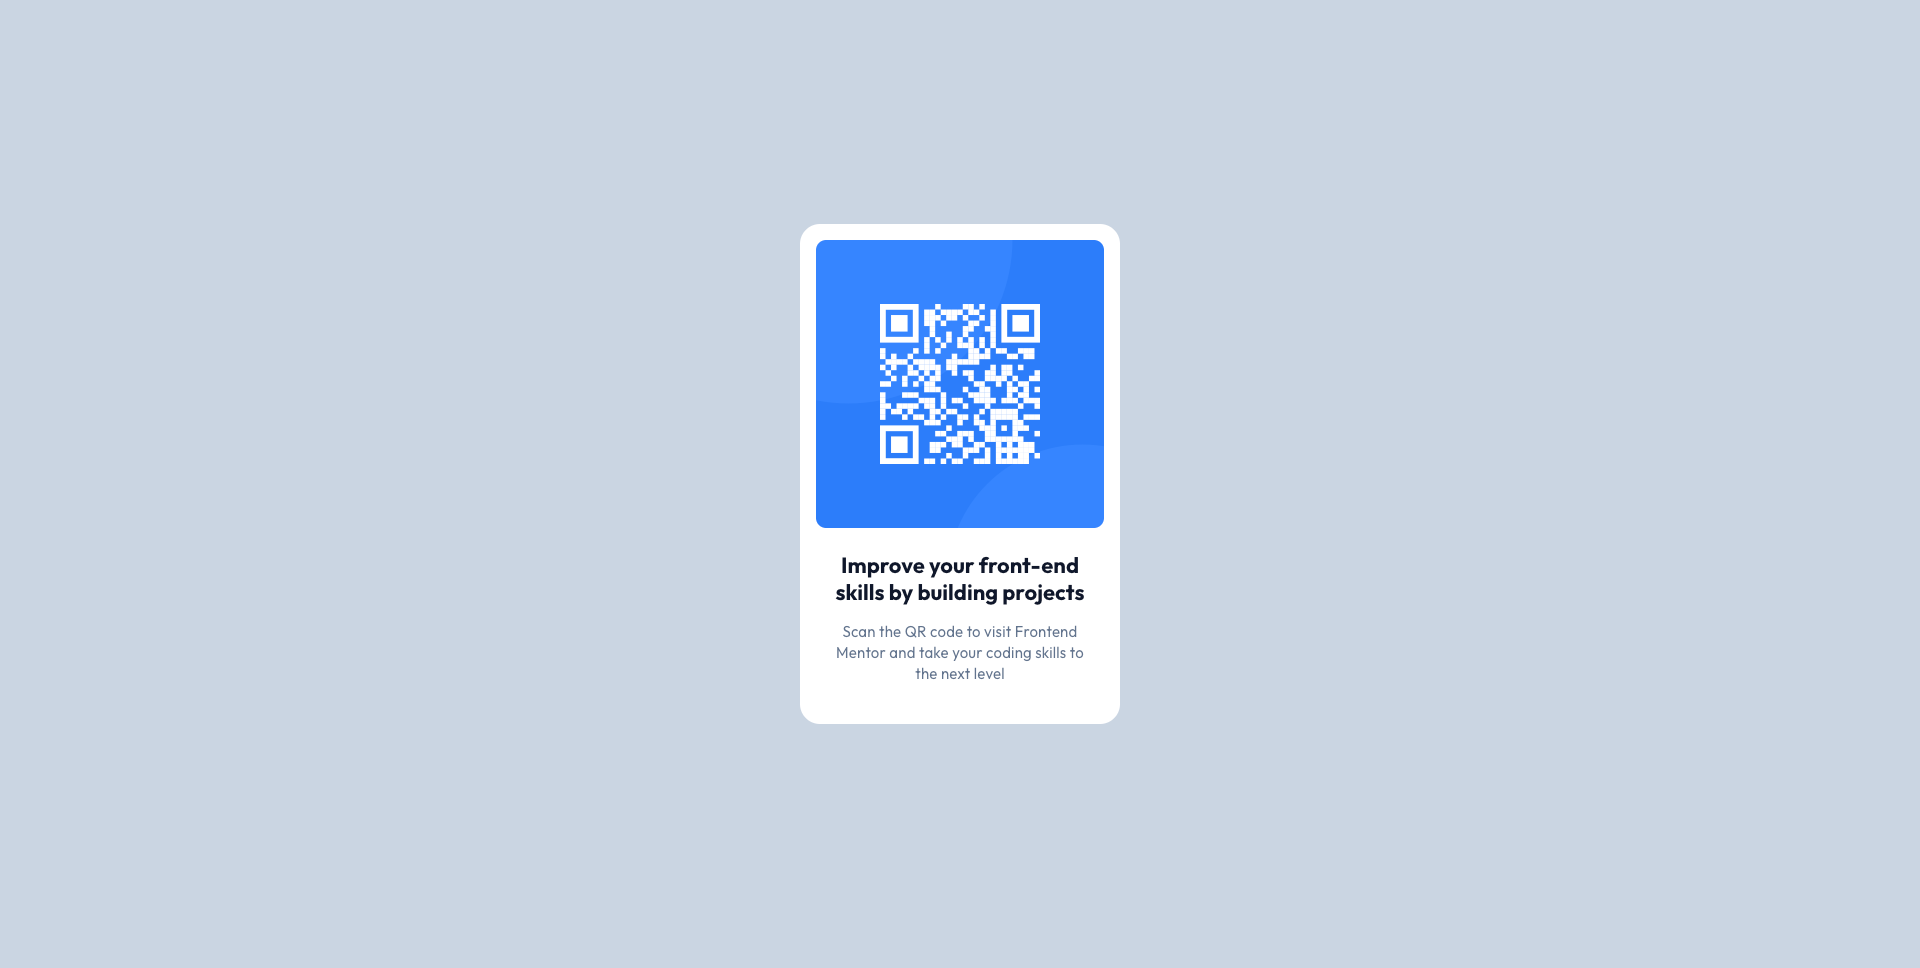
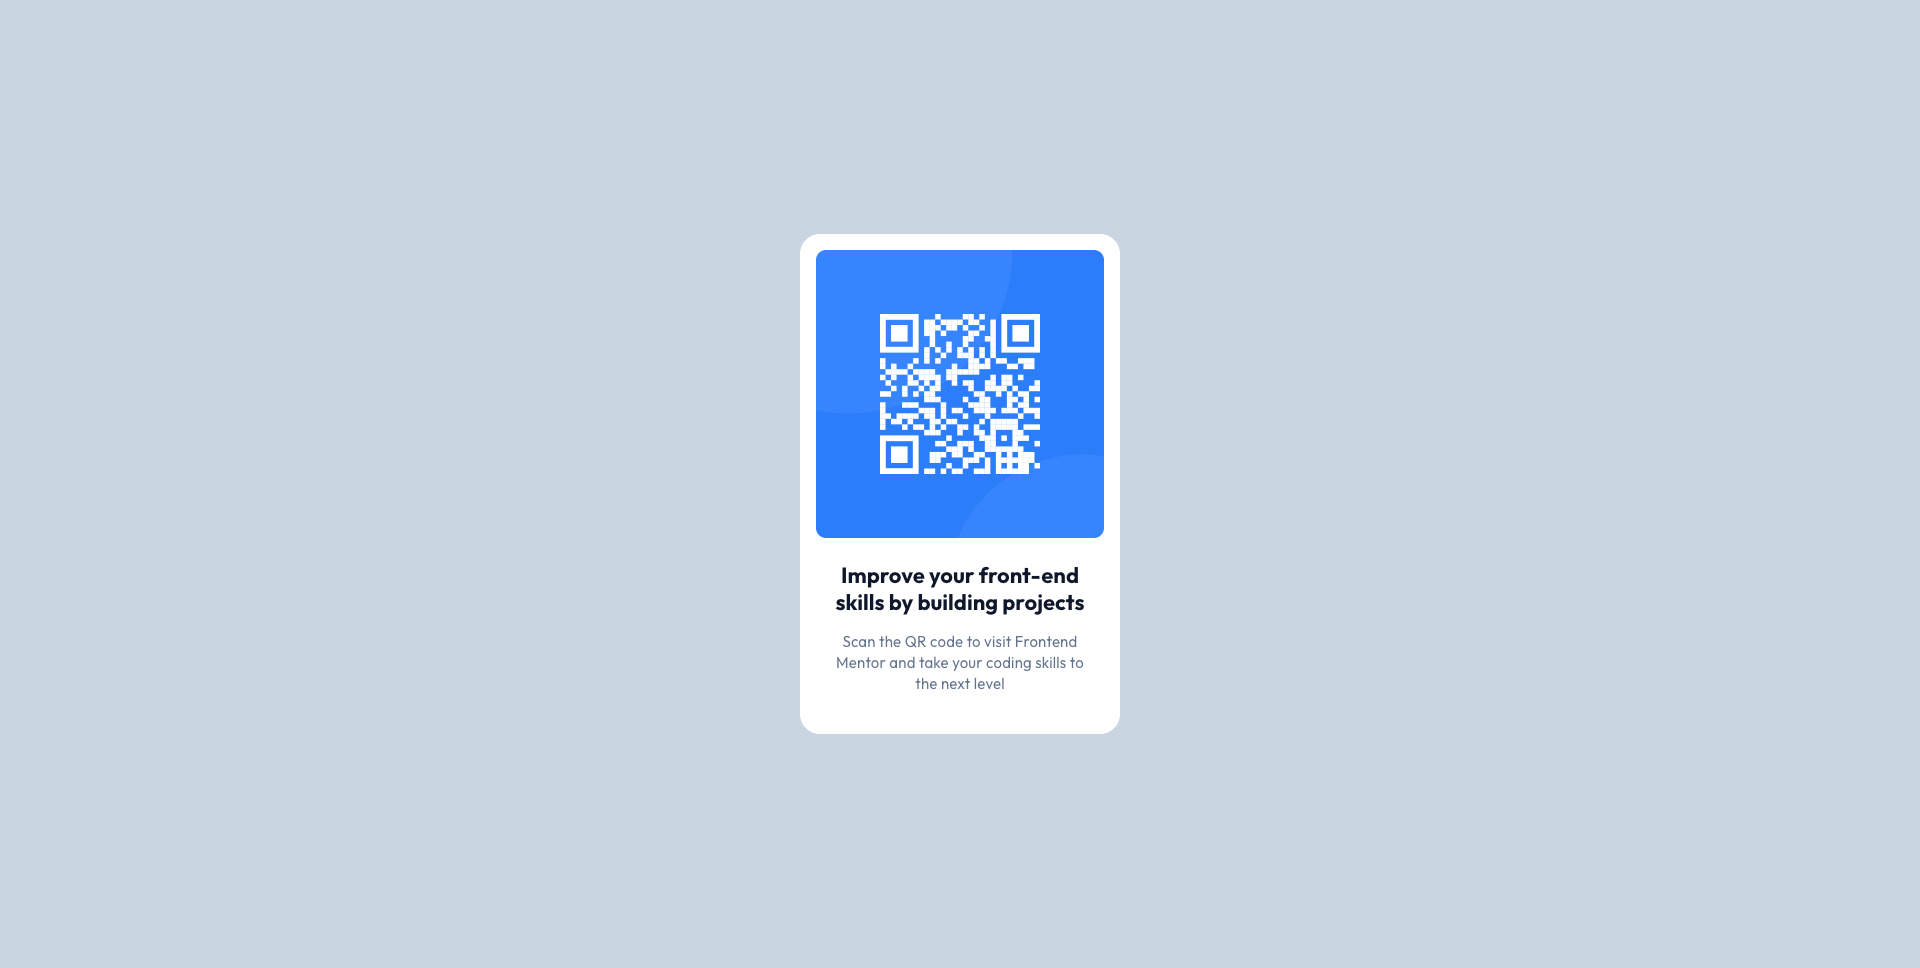
Refactor: README changes

diff --git a/src/App.tsx b/src/App.tsx
@@ -1,6 +1,6 @@
 function App() {
   return (
-    <main className="flex h-[98%] flex-grow w-screen max-w-[1440px] flex-col items-center justify-center">
+    <main className="flex h-full flex-grow w-screen max-w-[1440px] flex-col items-center justify-center">
       <div className="flex items-center justify-center flex-col max-w-xs gap-6 bg-white px-4 pt-4 pb-10 rounded-[20px]">
         <img
           src="/image-qr-code.png"
@@ -9,24 +9,10 @@ function App() {
         />
 
         <div className="flex flex-col gap-4 px-4">
-          <h1
-            style={{
-              fontSize: "22px",
-              lineHeight: "120%",
-              letterSpacing: "0px",
-            }}
-            className="text-slate-900 font-bold text-center"
-          >
+          <h1 className="text-slate-900 font-bold text-center text-[22px] leading-[120%] tracking-normal">
             Improve your front-end skills by building projects
           </h1>
-          <p
-            style={{
-              fontSize: "15px",
-              lineHeight: "140%",
-              letterSpacing: "0.2px",
-            }}
-            className="text-xs text-slate-500 text-center"
-          >
+          <p className="text-[15px] leading-[140%] tracking-[0.2px] text-slate-500 text-center">
             Scan the QR code to visit Frontend Mentor and take your coding
             skills to the next level
           </p>

diff --git a/src/Footer.tsx b/src/Footer.tsx
@@ -1,0 +1,16 @@
+const Footer = () => {
+  return (
+    <div className="attribution">
+      Challenge by{" "}
+      <a
+        href="https://www.frontendmentor.io?ref=challenge"
+        target="_blank"
+      >
+        Frontend Mentor
+      </a>
+      . Coded by <a href="#">Abderrachid Yassir</a>.
+    </div>
+  );
+};
+
+export default Footer;

diff --git a/src/main.tsx b/src/main.tsx
@@ -1,10 +1,12 @@
 import { StrictMode } from "react";
 import { createRoot } from "react-dom/client";
-import "./index.css";
 import App from "./App";
+import Footer from "./Footer";
+import "./index.css";
 
 createRoot(document.getElementById("root")!).render(
   <StrictMode>
     <App />
+    <Footer />
   </StrictMode>
 );

diff --git a/src/index.css b/src/index.css
@@ -2,7 +2,7 @@
 @import "tailwindcss";
 
 body {
-  font-family: "Outfit";
+  font-family: "Outfit", monospace;
   @apply bg-slate-300;
   @apply flex antialiased w-screen min-h-screen justify-center;
 }
